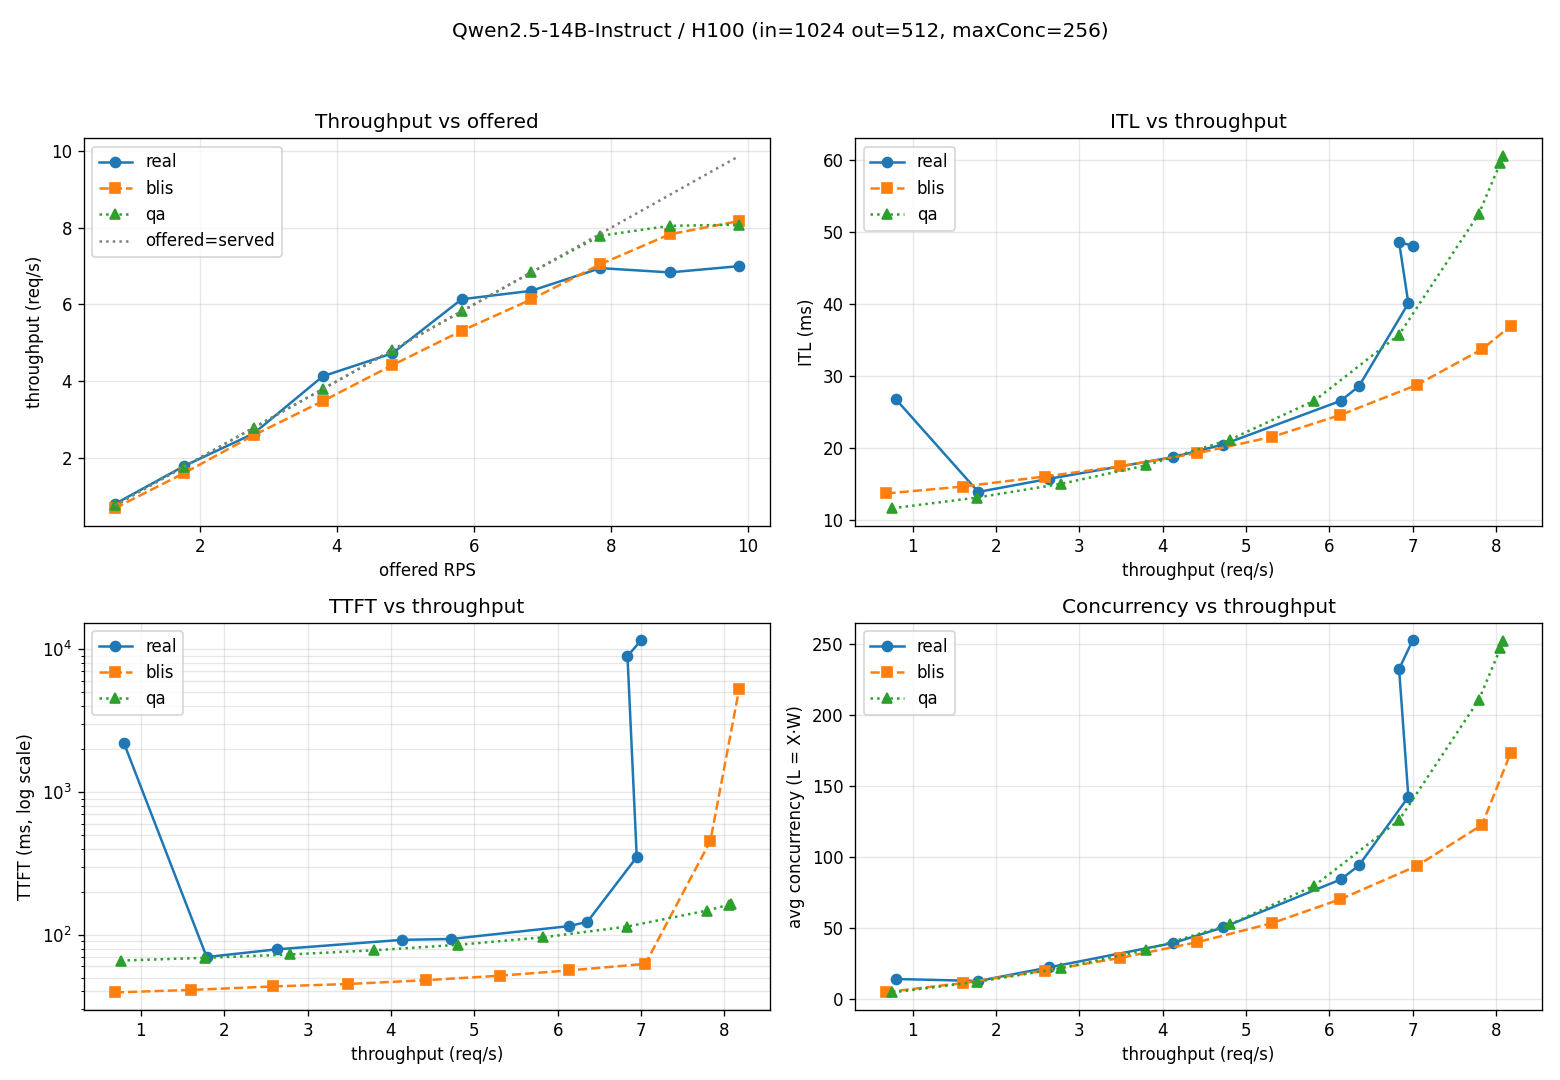
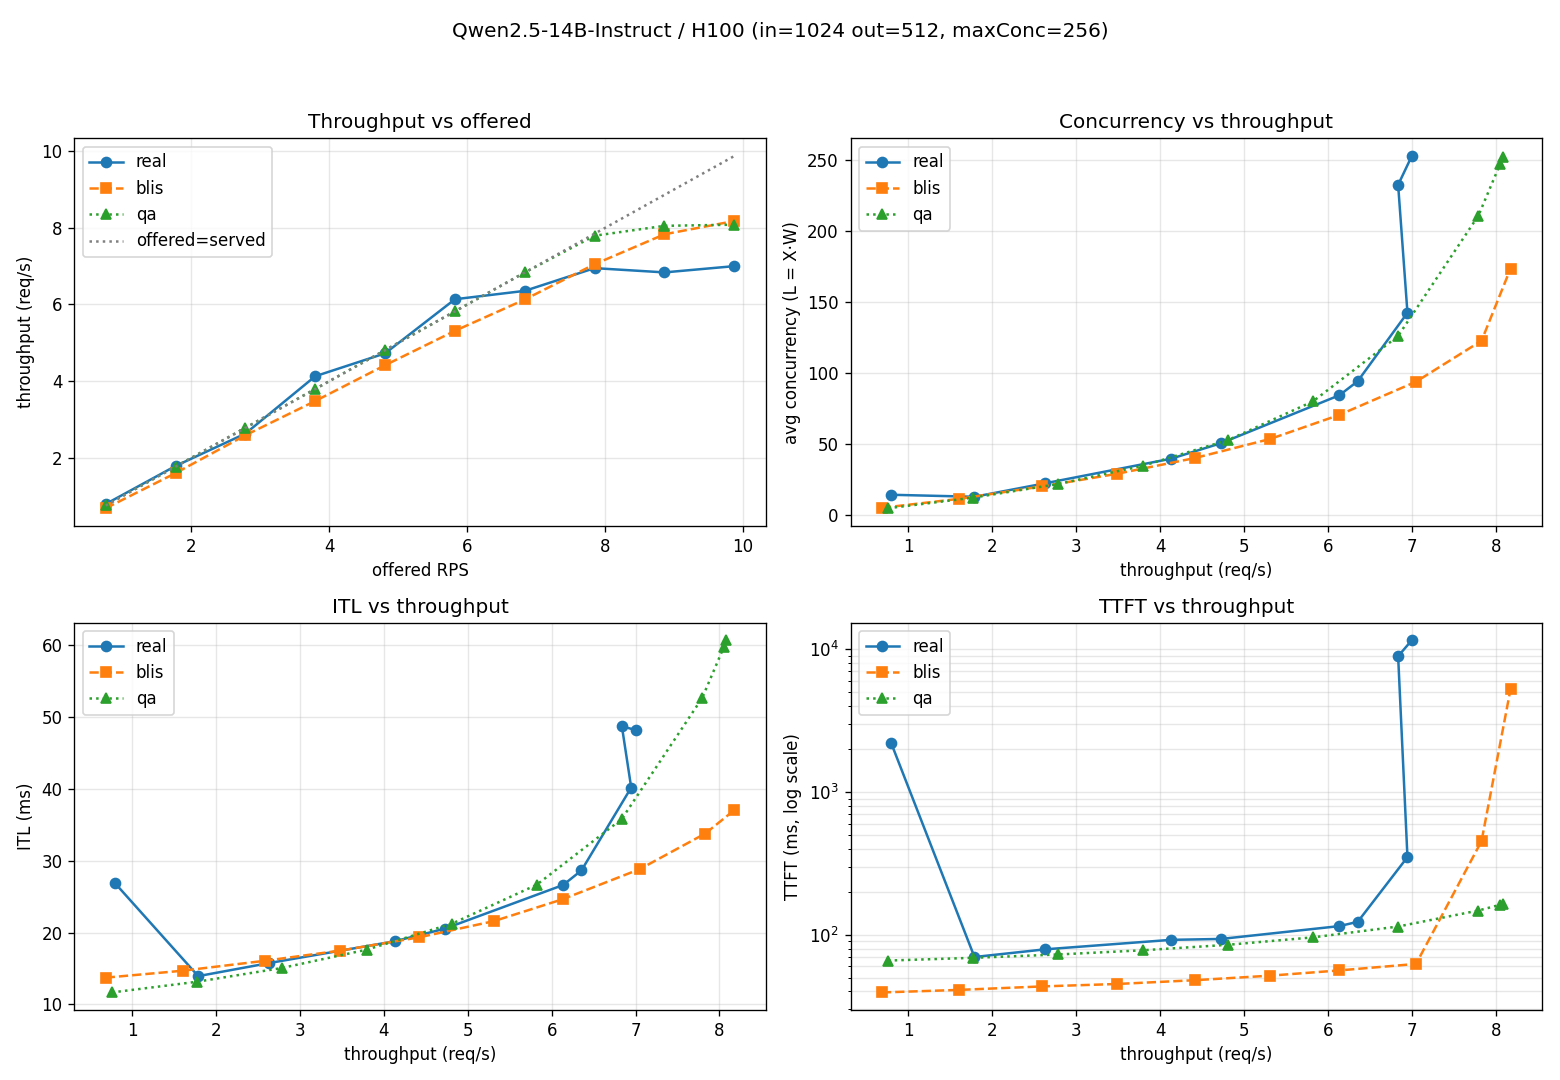
docs(experiments): group comparison panels by capacity vs latency
Reorder the 2x2 figure so related metrics sit together: top row = capacity
(throughput, concurrency), bottom row = latency (ITL, TTFT). Regenerate
comparison.png and update the REPORT.md caption.

diff --git a/experiments/qwen2.5-14b-h100/compare_curves.py b/experiments/qwen2.5-14b-h100/compare_curves.py
@@ -73,7 +73,7 @@ def main():
         return
 
     styles = ["o-", "s--", "^:", "d-."]
-    # 2x2 grid (top: throughput, ITL; bottom: TTFT, concurrency) — legible in the report.
+    # 2x2 grid: top row = capacity (throughput, concurrency), bottom row = latency (ITL, TTFT).
     fig, ax = plt.subplots(2, 2, figsize=(13, 9))
     ax = ax.ravel()
     for idx, (label, data) in enumerate(series):
@@ -81,21 +81,21 @@ def main():
         rps = [r["rps"] for r in data]
         tput = [r["throughput"] for r in data]
         ax[0].plot(rps, tput, st, label=label)
-        ax[1].plot(tput, [r["avgITL"] for r in data], st, label=label)
-        ax[2].plot(tput, [r["avgTTFT"] for r in data], st, label=label)
         # Little's law L = X·W: multiplier is the actual throughput X (served rate),
         # not the offered rate. benchmark_curve.py computes the `concurrency` column
         # as throughput × avgRespTime, so we just plot it here.
-        ax[3].plot(tput, [r["concurrency"] for r in data], st, label=label)
+        ax[1].plot(tput, [r["concurrency"] for r in data], st, label=label)
+        ax[2].plot(tput, [r["avgITL"] for r in data], st, label=label)
+        ax[3].plot(tput, [r["avgTTFT"] for r in data], st, label=label)
     ref_rps = [r["rps"] for r in series[0][1]]
     ax[0].plot(ref_rps, ref_rps, ":", color="gray", label="offered=served")
     ax[0].set(xlabel="offered RPS", ylabel="throughput (req/s)", title="Throughput vs offered")
-    ax[1].set(xlabel="throughput (req/s)", ylabel="ITL (ms)", title="ITL vs throughput")
-    # TTFT spans ~40 ms (low load) to ~10 s (saturation); log y keeps both ends readable.
-    ax[2].set(xlabel="throughput (req/s)", ylabel="TTFT (ms, log scale)", title="TTFT vs throughput")
-    ax[2].set_yscale("log")
-    ax[3].set(xlabel="throughput (req/s)", ylabel="avg concurrency (L = X·W)",
+    ax[1].set(xlabel="throughput (req/s)", ylabel="avg concurrency (L = X·W)",
               title="Concurrency vs throughput")
+    ax[2].set(xlabel="throughput (req/s)", ylabel="ITL (ms)", title="ITL vs throughput")
+    # TTFT spans ~40 ms (low load) to ~10 s (saturation); log y keeps both ends readable.
+    ax[3].set(xlabel="throughput (req/s)", ylabel="TTFT (ms, log scale)", title="TTFT vs throughput")
+    ax[3].set_yscale("log")
     for a in ax:
         a.legend(); a.grid(True, alpha=0.3, which="both")
     fig.suptitle(args.title)

diff --git a/experiments/qwen2.5-14b-h100/REPORT.md b/experiments/qwen2.5-14b-h100/REPORT.md
@@ -26,7 +26,7 @@ Headline results:
 
 ![Three-way comparison](results/comparison.png)
 
-*Four panels (2×2). Top row: throughput vs offered load, ITL vs throughput. Bottom row: TTFT vs throughput (log y), avg concurrency vs throughput (Little's law `L = X·W`, using the served throughput). Real = solid, BLIS = dashed, queue-analysis = dotted.*
+*Four panels (2×2). Top row — capacity: throughput vs offered load, avg concurrency vs throughput (Little's law `L = X·W`, served throughput). Bottom row — latency: ITL vs throughput, TTFT vs throughput (log y). Real = solid, BLIS = dashed, queue-analysis = dotted.*
 
 ---
 
